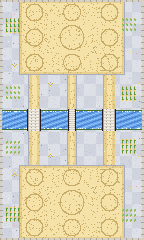
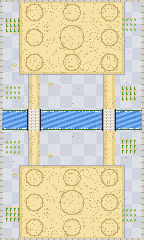
Sem ponte do meio e no máximo 2 módulos
- O rio só se atravessa pelas duas pontes dos lados (o meio virou água, no desenho das 13 arenas
  e no caminho das tropas). Voador continua passando por cima.
- Bots atacam sempre por um dos lados (antes miravam a Casa Grande, no meio).
- Módulos: máximo 2. 1 do nível 1 ao 7, 2 do 8 em diante.
- Testes: tropa solta no meio atravessa por uma ponte do lado; espaços por nível.
- 40 partidas entre bots: jogadas pelo meio caíram de 46% pra 29% (o resto é defesa perto da base).

Claude-Session: https://claude.ai/code/session_01F2c9wwKpd4XWAaAeM55Dzi

diff --git a/ci/tools/arte/arena.py b/ci/tools/arte/arena.py
@@ -56,8 +56,8 @@ def build(seed=7):
             c = DIRT[2]
         mirror_set(x, y, c)
 
-    # três caminhos RETOS: cada ponte desce direto pra sua coluna do pátio
-    for col_x, half in ((COLS[0], 5), (COLS[1], 4), (COLS[2], 5)):
+    # dois caminhos RETOS: cada ponte desce direto pra sua coluna do pátio
+    for col_x, half in ((COLS[0], 5), (COLS[2], 5)):
         for y in range(CY + RIVER_HALF, int(ROWS[0])):
             for x in range(int(col_x - half - 1), int(col_x + half + 1)):
                 d = abs(x + 0.5 - col_x)
@@ -119,17 +119,7 @@ def build(seed=7):
                         c = WOOD[2]  # pregos
                 px[x, y] = c
 
-    # ponte do meio (estreita, de corda e tábua)
-    for y in range(CY - RIVER_HALF - 2, CY + RIVER_HALF + 2):
-        for x in range(CX - CENTER_BRIDGE_HALF, CX + CENTER_BRIDGE_HALF):
-            rel = x - (CX - CENTER_BRIDGE_HALF)
-            if rel in (0, 2 * CENTER_BRIDGE_HALF - 1):
-                c = OUT
-            elif y % 2 == 0:
-                c = WOOD[0]
-            else:
-                c = WOOD[2] if rel in (1, 2 * CENTER_BRIDGE_HALF - 2) else WOOD[1]
-            px[x, y] = c
+    # (sem ponte do meio: só os dois lados atravessam o rio, igual o Clash)
 
     # cerca em volta do campo (só nas laterais e pontas, sem atrapalhar)
     for y in range(PH):

diff --git a/ci/tools/arte/arenas.py b/ci/tools/arte/arenas.py
@@ -1,6 +1,6 @@
 """Gera os 12 cenários de arena (um por faixa de troféu) em Resources/arena/arena_bg_<n>.png
     python3 ci/tools/arte/arenas.py
-Todos têm exatamente o mesmo traçado (rio, 3 pontes, caminhos) -- só muda o tema.
+Todos têm exatamente o mesmo traçado (rio, 2 pontes, caminhos) -- só muda o tema.
 """
 import os, random, math
 from PIL import Image
